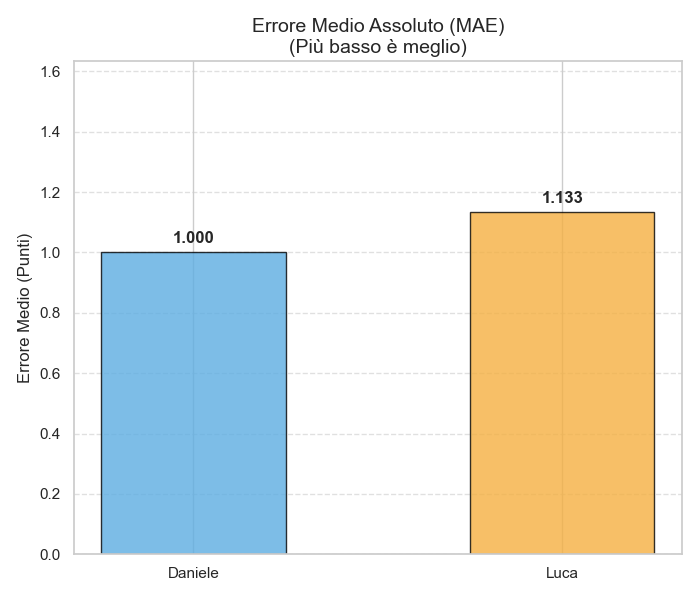
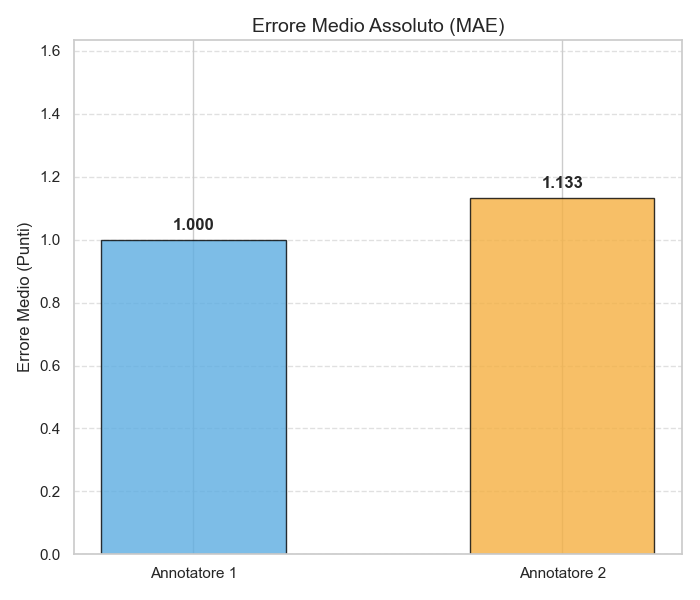
anonymize annotator names in metrics and visualizations

diff --git a/src/tts/bark_v2/annotations_app/agreement_and_correlation_study.py b/src/tts/bark_v2/annotations_app/agreement_and_correlation_study.py
@@ -151,13 +151,16 @@ agg_data = (
 agg_data["ci"] = 1.96 * agg_data["std"] / np.sqrt(agg_data["count"])
 
 styles = {
-    "Daniele": {"color": "#4477AA", "marker": "o", "shift": -0.15},
-    "Luca": {"color": "#CC6677", "marker": "s", "shift": +0.15},
+    "Annotatore 1": {"color": "#4477AA", "marker": "o", "shift": -0.15},
+    "Annotatore 2": {"color": "#CC6677", "marker": "s", "shift": +0.15},
 }
 
-for annotator in ["Daniele", "Luca"]:
+for annotator, anonymized_name in [
+    ("Daniele", "Annotatore 1"),
+    ("Luca", "Annotatore 2"),
+]:
     subset = agg_data[agg_data["Annotator"] == annotator].copy()
-    style = styles[annotator]
+    style = styles[anonymized_name]
 
     # Fill NaN per evitare errori grafici su punti singoli
     subset["ci"] = subset["ci"].fillna(0)
@@ -166,7 +169,7 @@ for annotator in ["Daniele", "Luca"]:
         x=subset["original_sentiment"] + style["shift"],
         y=subset["mean"],
         yerr=subset["ci"],
-        label=annotator,
+        label=anonymized_name,
         fmt=f"-{style['marker']}",
         color=style["color"],
         linewidth=2.5,
@@ -222,11 +225,12 @@ print("[Grafico salvato]: 2_confusion_matrix.png")
 
 # --- GRAFICO 3: MAE Comparison ---
 mae_data = []
-for name in ["Daniele", "Luca"]:
+# Replace annotator names with anonymized labels
+for name, anonymized_name in [("Daniele", "Annotatore 1"), ("Luca", "Annotatore 2")]:
     sub_df = df_plot[df_plot["Annotator"] == name]
     if len(sub_df) > 0:
         val = mean_absolute_error(sub_df["original_sentiment"], sub_df["human_rating"])
-        mae_data.append({"Annotator": name, "MAE": val})
+        mae_data.append({"Annotator": anonymized_name, "MAE": val})
 
 df_mae = pd.DataFrame(mae_data)
 
@@ -253,7 +257,7 @@ for bar in bars:
         fontweight="bold",
     )
 
-plt.title("Errore Medio Assoluto (MAE)\n(Più basso è meglio)", fontsize=14)
+plt.title("Errore Medio Assoluto (MAE)", fontsize=14)
 plt.ylabel("Errore Medio (Punti)", fontsize=12)
 if not df_mae.empty:
     plt.ylim(0, df_mae["MAE"].max() + 0.5)
